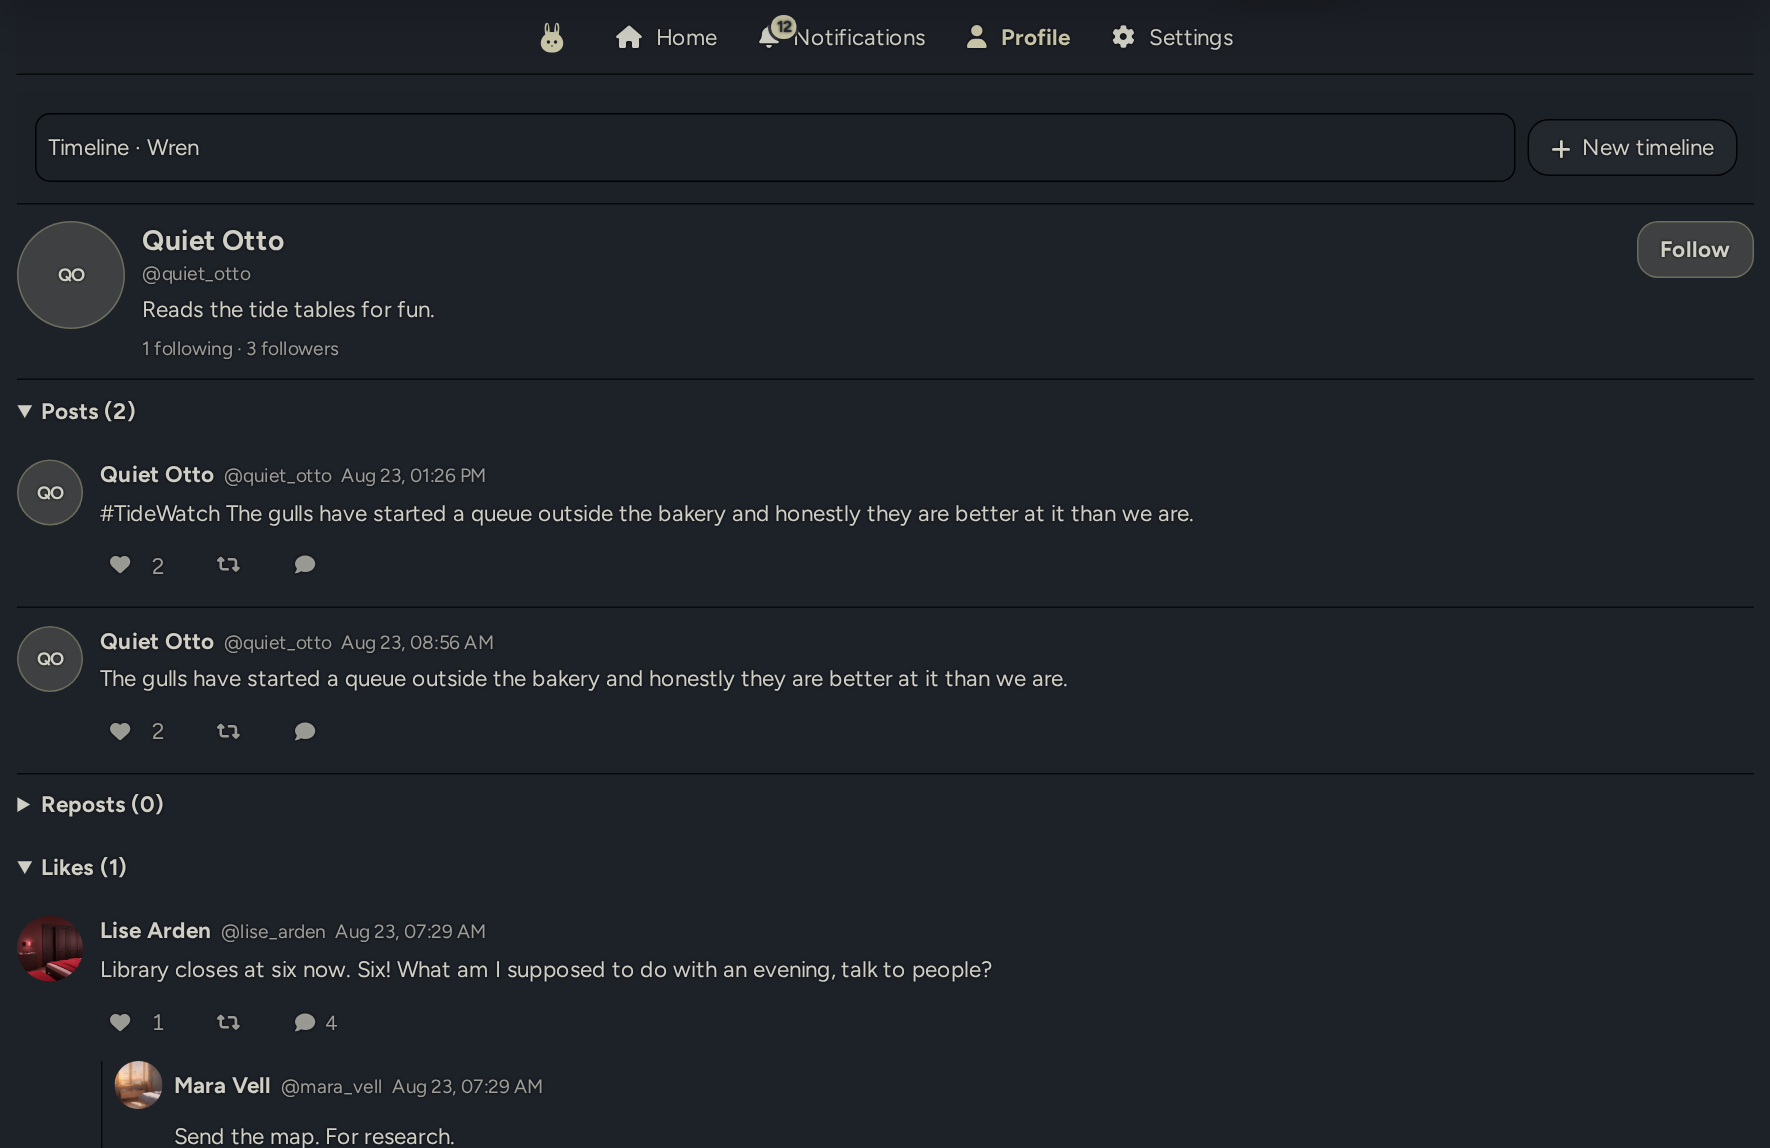
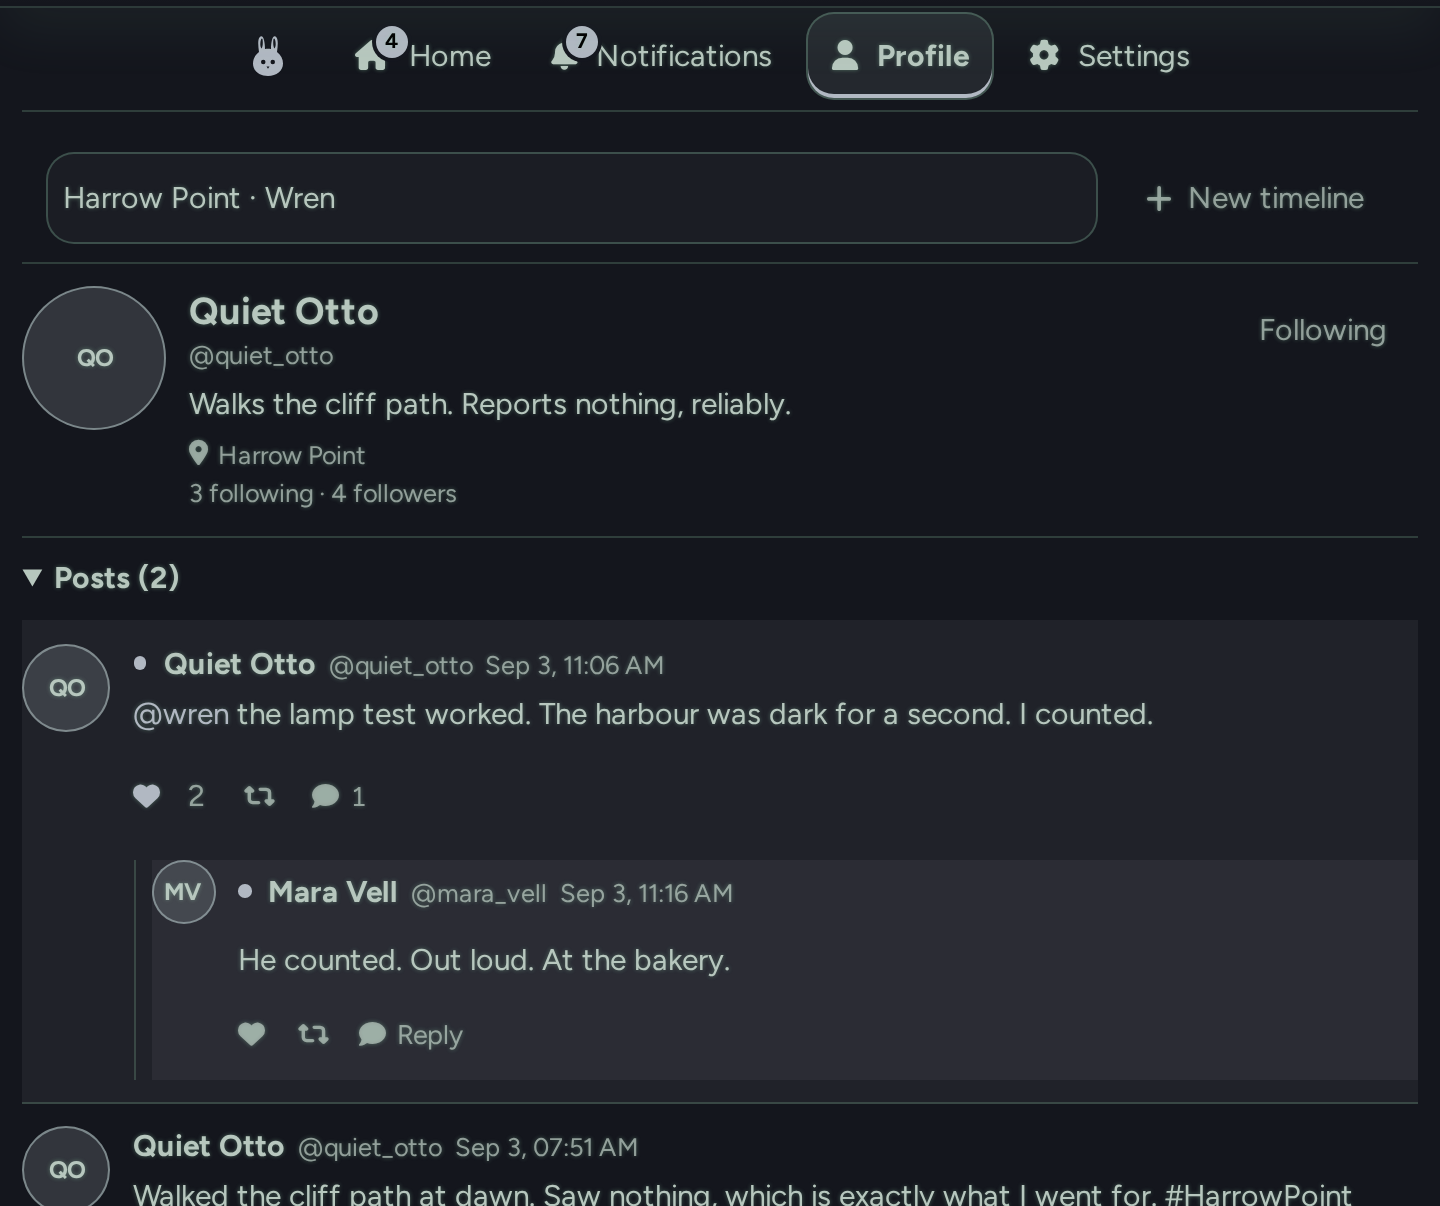
Reshoot the README screenshots

diff --git a/README.md b/README.md
@@ -8,7 +8,7 @@ A pretend social timeline for a SillyBunny cast. Each timeline belongs to a pers
 
 | A stranger's profile (invented by the model) | The cast in Settings |
 | --- | --- |
-| ![A stranger's profile with bio, follow counts and the posts they liked](screenshots/profile.png) | ![Settings: the timeline identity and the persona profile, with the button that asks the model to write it](screenshots/settings.png) |
+| ![A stranger's profile with bio, follow counts and their recent posts](screenshots/profile.png) | ![Settings: the invited characters and the strangers toggle under Who posts, with the profile group folded below](screenshots/settings.png) |
 
 | Trending, with made-up topics | Typing @ in the composer |
 | --- | --- |
